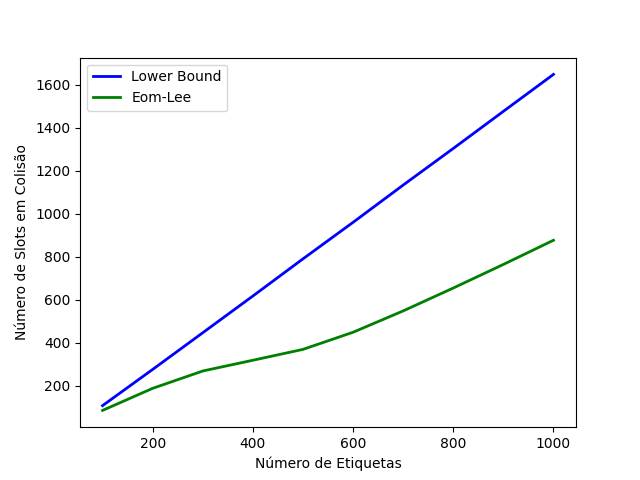
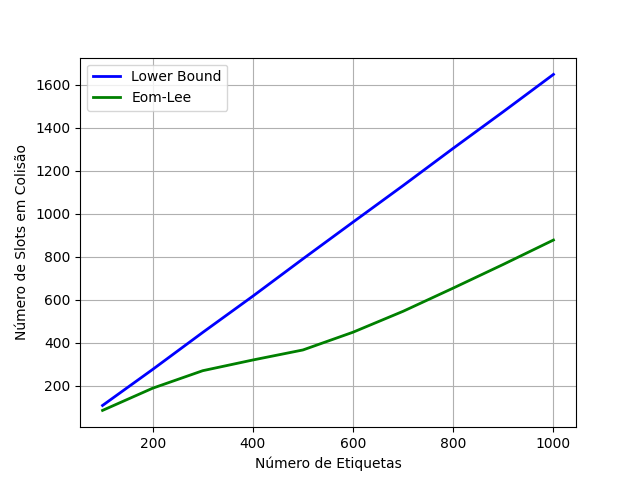
Fix plots titles

diff --git a/core/estimators.py b/core/estimators.py
@@ -4,6 +4,7 @@ import time
 
 from matplotlib import pyplot as plt
 
+
 def lower_bound(collisions):
     return collisions * 2
 
@@ -128,7 +129,9 @@ def simulate(
 
             list_tags_interval.append(tags)
 
-            print(list_tags_interval, list_avg_collisions, list_avg_slots, list_avg_empty)
+            print(
+                list_tags_interval, list_avg_collisions, list_avg_slots, list_avg_empty
+            )
         graph_plot_file_name_prefix = ""
         if estimator == 0:
             graph_plot_file_name_prefix = "lower_bound"
@@ -142,7 +145,7 @@ def simulate(
             "list_avg_collisions": list_avg_collisions,
             "list_avg_slots": list_avg_slots,
             "list_avg_empty": list_avg_empty,
-            "list_avg_time": list_avg_time
+            "list_avg_time": list_avg_time,
         }
 
         simulation_plot_graphs(estimator_results)
@@ -154,36 +157,67 @@ def simulation_plot_graphs(estimator_results):
     for result in estimator_results:
         plt.xlabel("Número de Etiquetas")
         plt.ylabel("Número de Slots em Colisão")
-        plt.plot(estimator_results[result]['list_tags_interval'], estimator_results[result]['list_avg_collisions'], linewidth=2, color=colors[result], label=labels[result])
+        plt.plot(
+            estimator_results[result]["list_tags_interval"],
+            estimator_results[result]["list_avg_collisions"],
+            linewidth=2,
+            color=colors[result],
+            label=labels[result],
+        )
         plt.legend()
-        plt.grid()
-        plt.savefig(f"graph_plots/{estimator_results[result]['graph_plot_file_name_prefix']}_n_collisions.png")
+        plt.grid(True)
+        plt.savefig(
+            f"graph_plots/{estimator_results[result]['graph_plot_file_name_prefix']}_n_collisions.png"
+        )
     plt.close()
 
     for result in estimator_results:
         plt.xlabel("Número de Etiquetas")
-        plt.ylabel("Número de Slots em Colisão")
-        plt.plot(estimator_results[result]['list_tags_interval'], estimator_results[result]['list_avg_slots'], linewidth=2, color=colors[result], label=labels[result])
+        plt.ylabel("Número de Slots")
+        plt.plot(
+            estimator_results[result]["list_tags_interval"],
+            estimator_results[result]["list_avg_slots"],
+            linewidth=2,
+            color=colors[result],
+            label=labels[result],
+        )
         plt.legend()
-        plt.grid()
-        plt.savefig(f"graph_plots/{estimator_results[result]['graph_plot_file_name_prefix']}_n_idle.png")
+        plt.grid(True)
+        plt.savefig(
+            f"graph_plots/{estimator_results[result]['graph_plot_file_name_prefix']}_n_idle.png"
+        )
     plt.close()
 
     for result in estimator_results:
         plt.xlabel("Número de Etiquetas")
-        plt.ylabel("Número de Slots em Colisão")
-        plt.plot(estimator_results[result]['list_tags_interval'], estimator_results[result]['list_avg_empty'], linewidth=2, color=colors[result], label=labels[result])
+        plt.ylabel("Número de Slots Vazios")
+        plt.plot(
+            estimator_results[result]["list_tags_interval"],
+            estimator_results[result]["list_avg_empty"],
+            linewidth=2,
+            color=colors[result],
+            label=labels[result],
+        )
         plt.legend()
-        plt.grid()
-        plt.savefig(f"graph_plots/{estimator_results[result]['graph_plot_file_name_prefix']}_n_slots.png")
+        plt.grid(True)
+        plt.savefig(
+            f"graph_plots/{estimator_results[result]['graph_plot_file_name_prefix']}_n_slots.png"
+        )
     plt.close()
 
     for result in estimator_results:
         plt.xlabel("Número de Etiquetas")
-        plt.ylabel("Número de Slots em Colisão")
-        plt.plot(estimator_results[result]['list_tags_interval'], estimator_results[result]['list_avg_time'], linewidth=2, color=colors[result], label=labels[result])
+        plt.ylabel("Tempo para Identificação (s)")
+        plt.plot(
+            estimator_results[result]["list_tags_interval"],
+            estimator_results[result]["list_avg_time"],
+            linewidth=2,
+            color=colors[result],
+            label=labels[result],
+        )
         plt.legend()
-        plt.grid()
-        plt.savefig(f"graph_plots/{estimator_results[result]['graph_plot_file_name_prefix']}_n_time.png")
+        plt.grid(True)
+        plt.savefig(
+            f"graph_plots/{estimator_results[result]['graph_plot_file_name_prefix']}_n_time.png"
+        )
     plt.close()
-
